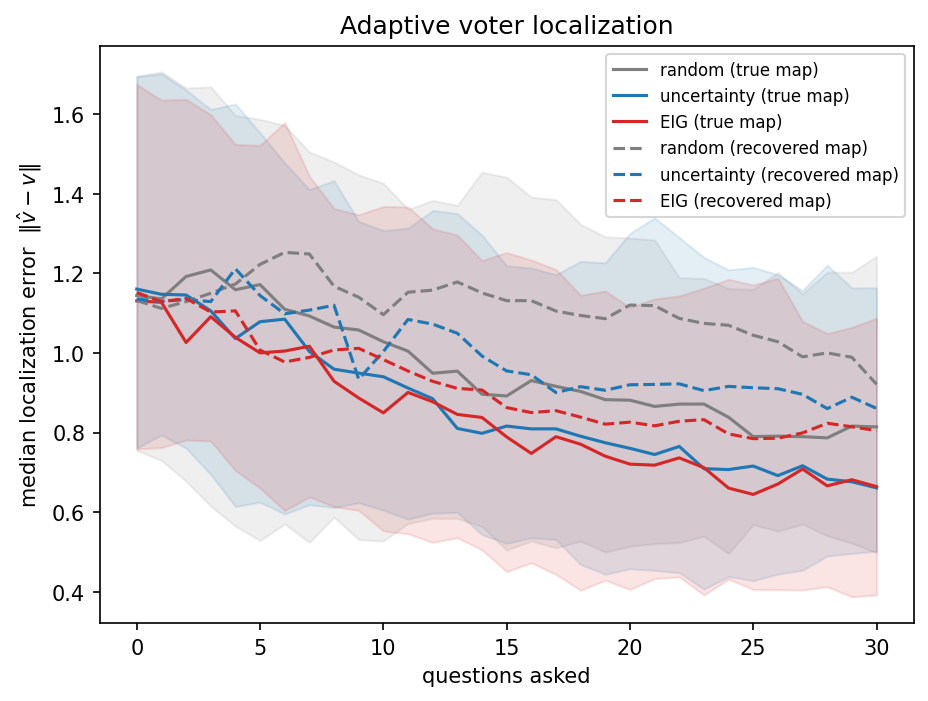
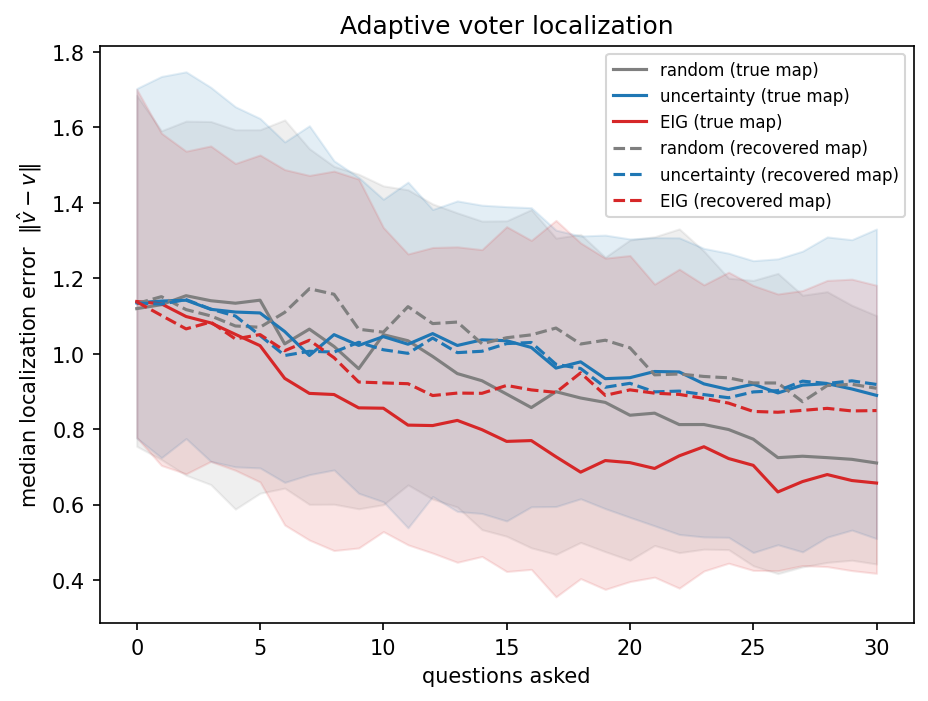
experiment 002 plus wandb

diff --git a/votesim/wandb_logger.py b/votesim/wandb_logger.py
@@ -1,0 +1,150 @@
+"""Weights & Biases logging utilities for voting-simulation experiments.
+
+Gracefully degrades: if the API key is absent or the import fails,
+all public methods become no-ops so consuming code needs no guards.
+"""
+from __future__ import annotations
+
+import os
+import logging
+from typing import Any
+
+logger = logging.getLogger(__name__)
+
+# ── guard: try to import wandb ────────────────────────────────────────────────
+try:
+    import wandb
+
+    _WANDB_AVAILABLE = True
+except ImportError:
+    _WANDB_AVAILABLE = False
+    wandb = None  # type: ignore[assignment]
+
+
+def _resolve_api_key() -> str | None:
+    """Return the API key from the environment, or None.
+
+    Checks both the canonical ``WANDB_API_KEY`` and the misspelled
+    ``WAND_API_KEY`` (:file:`.env`) as a fallback.
+    """
+    return os.environ.get("WANDB_API_KEY") or os.environ.get("WAND_API_KEY")
+
+
+def _is_enabled() -> bool:
+    """Return True if wandb can be used (imported + key present)."""
+    if not _WANDB_AVAILABLE:
+        logger.debug("wandb not installed — skipping logging")
+        return False
+    if not _resolve_api_key():
+        logger.info("WANDB_API_KEY not found in environment — skipping wandb logging")
+        return False
+    return True
+
+
+# ── public API ────────────────────────────────────────────────────────────────
+
+def init_run(
+    project: str = "voting-simulation",
+    config: dict[str, Any] | None = None,
+    notes: str | None = None,
+    tags: list[str] | None = None,
+) -> tuple[bool, str | None]:
+    """Initialise a wandb run.
+
+    Parameters
+    ----------
+    project : str
+        W&B project name.
+    config : dict or None
+        Hyperparameters / experiment config to save with the run.
+    notes : str or None
+        Free-text description of the run.
+    tags : list[str] or None
+        Tags for organising runs in the W&B UI.
+
+    Returns
+    -------
+    (success, run_url)
+        ``(True, "https://wandb.ai/...")`` on success,
+        ``(False, None)`` when wandb is unavailable / skipped.
+    """
+    if not _is_enabled():
+        return False, None
+
+    run = wandb.init(  # type: ignore[union-attr]
+        project=project,
+        config=config,
+        notes=notes,
+        tags=tags,
+    )
+    if run is None:
+        logger.warning("wandb.init() returned None — check your API key / network")
+        return False, None
+
+    try:
+        url = wandb.run.get_url()  # type: ignore[union-attr]
+    except Exception:
+        url = f"https://wandb.ai/home?project={project}"
+    print(f"  └─ W&B project : {project}")
+    print(f"  └─ W&B run URL : {url}")
+    return True, url
+
+
+def log_metrics(
+    data: dict[str, Any],
+    step: int | None = None,
+) -> None:
+    """Log a dictionary of metrics to the current wandb run.
+
+    Safe to call even when wandb is disabled (no-op).
+    """
+    if wandb is None or not wandb.run:
+        return
+    wandb.log(data, step=step)  # type: ignore[union-attr]
+
+
+def log_figure(
+    path: str,
+    caption: str | None = None,
+) -> None:
+    """Upload a figure file as a wandb Artifact.
+
+    Parameters
+    ----------
+    path : str
+        Path to the figure file on disk.
+    caption : str or None
+        Optional caption stored as artifact description.
+    """
+    if wandb is None or not wandb.run:
+        return
+    if not os.path.isfile(path):
+        logger.warning("Figure not found, skipping upload: %s", path)
+        return
+
+    name = os.path.splitext(os.path.basename(path))[0].replace("_", "-")
+    artifact = wandb.Artifact(  # type: ignore[union-attr]
+        name=name,
+        type="figure",
+        description=caption or "",
+    )
+    artifact.add_file(path)
+    wandb.run.log_artifact(artifact)  # type: ignore[union-attr]
+
+
+def log_summary(metrics: dict[str, Any]) -> None:
+    """Set wandb run summary fields (displayed on the run overview page)."""
+    if wandb is None or not wandb.run:
+        return
+    for key, value in metrics.items():
+        wandb.run.summary[key] = value  # type: ignore[union-attr]
+
+
+def finish_run(exit_code: int = 0) -> None:
+    """Mark the current wandb run as finished."""
+    if wandb is None or not wandb.run:
+        return
+    if exit_code != 0:
+        wandb.run.finish(exit_code=exit_code)  # type: ignore[union-attr]
+    else:
+        wandb.run.finish()  # type: ignore[union-attr]

diff --git a/run_sweep.py b/run_sweep.py
@@ -2,7 +2,8 @@
 """Multi-seed experiment sweep.
 
 Runs the full phase-1 topic-recovery pipeline over seeds 0 .. n_seeds-1
-and aggregates metrics with median + IQR bands.
+and aggregates metrics with median + IQR bands. Logs everything to Weights &
+Biases (if ``WANDB_API_KEY`` is set in the environment or :file:`.env`).
 
 Usage:
     python run_sweep.py [--n_seeds 20] [--n_voters 2000]
@@ -15,19 +16,68 @@ Output:
     sweep_results.json  — raw per-seed data for further analysis
 """
 import os, sys, json, argparse
+from pathlib import Path
+
 import numpy as np
 import matplotlib.pyplot as plt
 
 from votesim import SimConfig, make_world, vote_probs, sample_votes
 from votesim.metrics import aligned_rmse, distance_spearman, mean_loglik
 from votesim.recovery import recover_pca, recover_mds, mle_fit
+from votesim.wandb_logger import (
+    init_run,
+    log_metrics,
+    log_figure,
+    log_summary,
+    finish_run,
+)
+
+# ── load .env for WANDB_API_KEY (docker-compose may not pass it automatically) ──
+env_path = Path(__file__).with_name(".env")
+if env_path.exists():
+    for line in env_path.read_text().splitlines():
+        line = line.strip()
+        if line and not line.startswith("#") and "=" in line:
+            k, v = line.split("=", 1)
+            os.environ.setdefault(k.strip(), v.strip())
 
 os.makedirs("figures", exist_ok=True)
 
 parser = argparse.ArgumentParser(description="Multi-seed experiment sweep")
 parser.add_argument("--n_seeds", type=int, default=20, help="number of seeds")
 parser.add_argument("--n_voters", type=int, default=2000, help="voters per seed")
+parser.add_argument("--wandb_project", type=str, default="voting-simulation",
+                    help="W&B project name (default: voting-simulation)")
+parser.add_argument("--wandb_disabled", action="store_true",
+                    help="Skip W&B logging even if API key is present")
 args = parser.parse_args()
+
+# ── shared config (used for both simulation and W&B run config) ──
+SWEEP_CONFIG = dict(
+    n_seeds=args.n_seeds,
+    n_voters=args.n_voters,
+    alpha=2,
+    n_topics=60,
+    tau=0.4,
+    kernel="logistic",
+    eps=0.03,
+    dim_search=[1, 2, 3, 4, 5],
+)
+
+# ── W&B initialisation ──
+_wandb_active = False
+_wandb_url = None
+if not args.wandb_disabled:
+    _wandb_active, _wandb_url = init_run(
+        project=args.wandb_project,
+        config=SWEEP_CONFIG,
+        notes=f"sweep over {args.n_seeds} seeds, {args.n_voters} voters each",
+        tags=["sweep", f"n_seeds={args.n_seeds}"],
+    )
+if _wandb_active:
+    print(f"W&B logging active — {_wandb_url}")
+else:
+    print("W&B logging skipped (set WANDB_API_KEY in .env to enable)")
 
 dims_to_try = [1, 2, 3, 4, 5]
 
@@ -84,6 +134,22 @@ for s in range(args.n_seeds):
         heldout_ll={str(d): float(bll[d]) for d in dims_to_try},
     ))
 
+    # ── per-seed W&B logging ──
+    log_metrics({
+        "seed": s,
+        "approval_rate": approval,
+        "rmse_pca": rmse_pca,
+        "rmse_mds": rmse_mds,
+        "rmse_mle": rmse_mle,
+        "dist_spearman_pca": ds_pca,
+        "dist_spearman_mds": ds_mds,
+        "dist_spearman_mle": ds_mle,
+        "train_loglik": train_ll,
+        "oracle_loglik": oracle_ll,
+        "selected_dim": best_dim,
+        **{f"heldout_ll_dim{d}": float(bll[d]) for d in dims_to_try},
+    }, step=s)
+
 # ---- aggregate ----
 def median_iqr(arr):
     return float(np.median(arr)), float(np.percentile(arr, 25)), float(np.percentile(arr, 75))
@@ -110,6 +176,20 @@ for d in range(1, 6):
 with open("sweep_results.json", "w") as f:
     json.dump(records, f, indent=2)
 print(f"\nRaw data saved to sweep_results.json")
+
+# ---- aggregate metrics logged to W&B ----
+if _wandb_active:
+    agg = {}
+    for key in ["rmse_pca", "rmse_mds", "rmse_mle",
+                "ds_pca", "ds_mds", "ds_mle", "approval"]:
+        vals = np.array([r[key] for r in records])
+        med, q1, q3 = median_iqr(vals)
+        agg[f"{key}_median"] = med
+        agg[f"{key}_q1"] = q1
+        agg[f"{key}_q3"] = q3
+    agg["dim_select_accuracy"] = dim_counts[2] / len(records)
+    log_summary(agg)
+    log_metrics({**agg, "stage": "aggregate"}, step=args.n_seeds)
 
 # ---- figure: recovery metrics ----
 fig, axes = plt.subplots(1, 2, figsize=(10, 4.5))
@@ -149,6 +229,9 @@ axes[1].grid(axis="y", alpha=0.3)
 fig.tight_layout()
 fig.savefig("figures/fig_sweep_recovery.png", dpi=150, bbox_inches="tight")
 print("Figure: figures/fig_sweep_recovery.png saved")
+if _wandb_active:
+    log_figure("figures/fig_sweep_recovery.png",
+               caption="Topic recovery RMSE and distance-Spearman per method")
 
 # ---- figure: dim selection frequency ----
 fig, ax = plt.subplots(figsize=(6, 4))
@@ -162,3 +245,6 @@ ax.legend()
 fig.tight_layout()
 fig.savefig("figures/fig_sweep_dimselect.png", dpi=150, bbox_inches="tight")
 print("Figure: figures/fig_sweep_dimselect.png saved")
+
+# ── close W&B run ──
+finish_run()